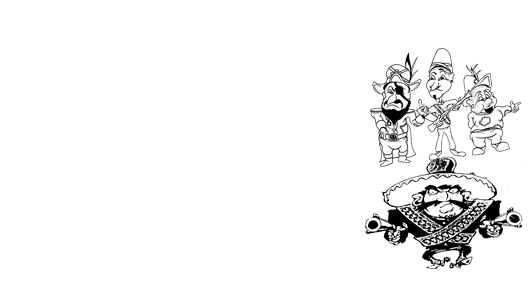
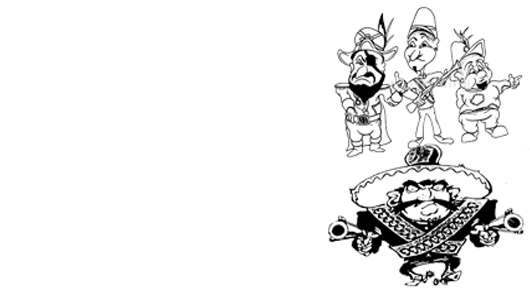
Arrange the css

Changed region(s): [[0.6038, 0.0, 0.9962, 0.9897]]

diff --git a/JohnAdvanture/index.html b/JohnAdvanture/index.html
@@ -13,6 +13,7 @@
     <div id="impress">
         <div id="1" class="step slide">
             <div class="main">
+             
                 <p>You have to find flowers fo the regend</p>
                 <p>which can cure any illness for your mother.</p>
                 <p>You just left for finding it and</p>
@@ -32,18 +33,26 @@
                 <p>who fell into the hand of robbers.</p>
                 <p>Do you pass b on the other side or help him?</p>
                 <!--<div class="menu"><p><a href="#1">START OVER</a></p></div>-->
-                <p><a href="#3_help">help him</a></p>
-                <p><a href="#3_pass">pass him</a></p>
+                <br />
+                <br />
+                <br />
+                <br />
+                <p align ="right"><a href="#3_help">help him</a></p>
+                <p align="right"><a href="#3_pass">pass him</a></p>
 
             </div>
         </div>
         <!--SEcond detour SLIDE. User choose dinner or dinner with beer-->
         <div id="2_detour" class="step slide" data-x="-1500">
             <div class="detour">
+                <br />
+                <br />
                 <p>You re so tired because you walk too much</p>
                 <p>You determine to stay at a inn.</p>
                 <p>You are suddenly hungry and tried to have dinner</p>
                 <p>Do you want to have dinner with alcohol or not?</p>
+                <br />
+                <br />
                 <p><a href="#3_drink">Only dinner</a></p>
                 <p><a href="#3_sleep">Dinner with beer</a></p>
             </div>
@@ -52,12 +61,16 @@
         <!--THIRD help SLIDE. -->
         <div id="3_help" class="step slide" data-x="3000">
             <div class="help">
+                <br />
                 <p>The man recover from consciousness and</p>
                 <p>give an amulet to thank you</p>
                 <p>"This amulet will protect you" the man said</p>
                 <p>On the way to the flowers of the legend,</p>
-                <p>You meet bandits. Suddenly the amulet is shining</p>
+                <p>You meet bandits.</p> 
+                <P>Suddenly the amulet is shining</p>
                 <p>Do you want to use the amulet?</p>
+                <br />
+                <br />
                 <p><a href="#4_show">Yes</a></p>
                 <p><a href="#4_noshow">No</a></p>
             </div>
@@ -65,9 +78,15 @@
         <!--THIRD pass SLIDE-->
         <div id="3_pass" class="step slide" data-x="4500">
             <div class="pass">
+                <br />
+                <br />
+                <br />
                 <p>You meet a bunch of bandits</p>
-                <p>You are scared but you have to pass this way to get the flower</p>
+                <p>You are scared but you have</p> 
+                <p>to pass this way to get the flower</p>
                 <p>Do you want to run away or fight them?</p>
+                
+                <br />
                 <p><a href="#4_run">run</a></p>
                 <p><a href="#4_fight">fight</a></p>
             </div>
@@ -76,9 +95,15 @@
         <!--FORTH use the amulet SLIDE--> 
         <div id="4_show" class="step slide" data-x="6000">
             <div class="useAmulet">
+                <br />
+                <br />
                 <p>The amulet makes a big light and bandits are passed out</p>
                 <p>You leave hurriedly.</p>
                 <p>Finally, you find the flower of the legend and your mother be cured!!</p>
+                <br />
+                <br />
+                <br />
+                <br />
                 <div class="menu"><p><a href="#1">START OVER</a></p></div>
 
             </div>
@@ -86,8 +111,17 @@
         <!--FORTH do not use the amulet SLIDE-->
         <div id="4_noshow" class="step slide" data-x="7500">
             <div class="dontuse">
-                <p>You are frightened and run away from bandits</p>
-                <p>You save your life but don't get the flower of the legend.</p>
+                <p align="right">You are frightened and</p>
+                <p>run away from bandits</p>
+                <p align ="right">You save your life </p>
+                <br />
+                <br />
+                <br />
+                <P>You is so frightend and run away from them</P>
+                <p>You save your life</p>
+                <p>but don't get the flower of the legend.</p>
+                <br />
+                <br />
                 <div class="menu"><p><a href="#1">START OVER</a></p></div>
             </div>
         </div>
@@ -95,7 +129,16 @@
         <!--FORTH run away from the bandits SLIDE-->
         <div id="4_run" class="step slide" data-x="9000">
             <div class="run">
+                
+                <br />
+                <br />
+                <br />
                 <p>You save your life barely but don't get the cure</p>
+                <br />
+
+                <br />
+                <br />
+                <br />
                 <div class="menu"><p><a href="#1">START OVER</a></p></div>
 
             </div>
@@ -103,9 +146,17 @@
         <!--FORTH fight SLIDE-->
         <div id="4_fight" class="step slide" data-x="10500">
             <div class="fight">
+                <br />
+                <br />
+                <br />
+                <br />
                 <p>You can not bit them...</p>
                 <p>Finally, you are die......</p>
-
+                
+                <br />
+                <br />
+                <br />
+                <br />
                 <div class="menu"><p><a href="#1">START OVER</a></p></div>
             </div>
         </div>
@@ -114,9 +165,13 @@
         <!--THIRD drink SLIDE-->
         <div id="3_drink" class="step slide" data-x="-3000">
             <div class="beer">
+                <br />
+                <br />
                 <p>You was drunk last night.</p>
                 <p>You are stolen your money. You don't have money for inn rate.</p>
                 <p>Do you work for the rate or run away?</p>
+                <br />
+                <br />
                 <p><a href="#4_work">work</a></p>
                 <p><a href="#4_runaway">run away</a></p>
 
@@ -125,6 +180,9 @@
         <!--THIRD sleep at inn SLIDE-->
         <div id="3_sleep" class="step slide" data-x="-4500">
             <div class="sleep">
+                <br />
+                <br />
+                <br />
                 <p>Next day, you leave the Inn. It is a long way to get the cure.</p>
                 <p>You decide to buy a horse. You see two horses.</p>
                 <p>One is looking good but expensive. other horse is old but chip.</p>
@@ -136,9 +194,14 @@
         <!--FORTH work at inn SLIDE-->
         <div id="4_work" class="step slide" data-x="-6000">
             <div class="work">
+                <br />
+                <br />
                 <p>You have to work 3days for paying the rate </p>
                 <p>but it is too late to get the cure.</p>
                 <p>When you get the cure and back home, your mother is died.</p>
+                <br />
+                <br />
+                <br />
                 <div class="menu"><p><a href="#1">START OVER</a></p></div>
 
             </div>

diff --git a/JohnAdvanture/css/game.css b/JohnAdvanture/css/game.css
@@ -76,65 +76,93 @@
 
 .main{
     background-image: url('../images/main.png');
-    background-size: 100%;
+    background-size:contain;
+    background-repeat:no-repeat;
+    background-position:bottom;
 }
 
 .shortcut{
     background-image: url('../images/felldown.png');
-    background-size: 100%;
+    background-size: contain;
+    background-repeat:no-repeat;
+    background-position:bottom;
 }
 .detour{
     background-image: url('../images/dinner.png');
-    background-size: 100%;    
+    background-size: contain;
+    background-repeat:no-repeat;
+    background-position:bottom; 
 }
 
 .help{
     background-image: url('../images/amulet.png');
-    background-size: 100%;
+    background-size: contain;
+    background-repeat:no-repeat;
+    background-position:bottom;
 }
 
 .pass{
     background-image: url('../images/bandit.png');
-    background-size: 100%;
+    background-size: contain;
+    background-repeat:no-repeat;
+    background-position:bottom;
 }
 .useAmulet{
     background-image: url('../images/main.png');
-    background-size: 100%;    
+    background-size: contain;
+    background-repeat:no-repeat;
+    background-position:bottom;
 }
 
 .run{
     background-image: url('../images/run.png');
-    background-size: 100%;
+    background-size: contain;
+    background-repeat:no-repeat;
+    background-position:bottom;
 }
 
 .fight{
     background-image: url('../images/beat.png');
-    background-size: 100%;
+    background-size: contain;
+    background-repeat:no-repeat;
+    background-position:bottom;
 }
 .beer{
     background-image: url('../images/drunk.png');
-    background-size: 100%;    
+    background-size: contain;
+    background-repeat:no-repeat;
+    background-position:bottom;
 }
 .sleep{
     background-image: url('../images/horses.png');
-    background-size: 100%;
+    background-size:contain;
+    background-repeat:no-repeat;
+    background-position:bottom;
 }
 
 .work{
     background-image: url('../images/cleaning.png');
-    background-size: 100%;
+    background-size:contain;
+    background-repeat:no-repeat;
+    background-position:bottom;
 }
 .runaway{
     background-image: url('../images/runway.png');
-    background-size: 100%;    
+    background-size:contain;
+    background-repeat:no-repeat;
+    background-position:bottom;
 }
 
 .younghorse{
     background-image: url('../images/felldownhorse.png');
-    background-size: 100%;
+    background-size:contain;
+    background-repeat:no-repeat;
+    background-position:bottom;
 }
 
 .oldhorse{
     background-image: url('../images/1.png');
-    background-size: 100%;
+    background-size:contain;
+    background-repeat:no-repeat;
+    background-position:bottom;
 }
